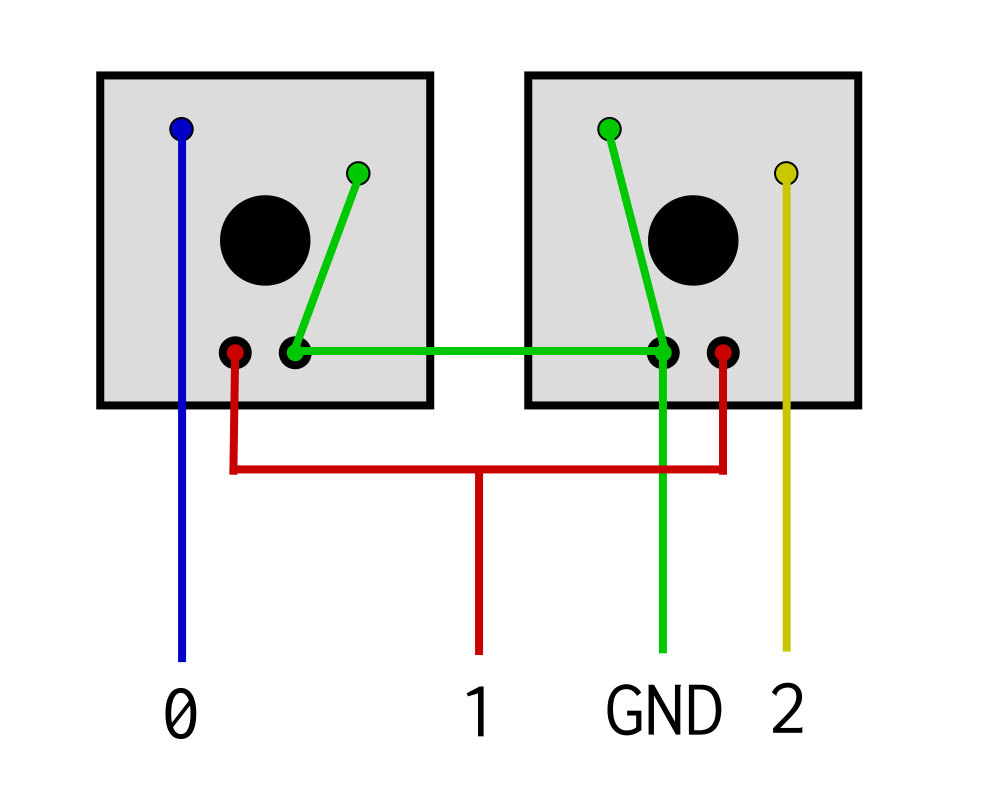
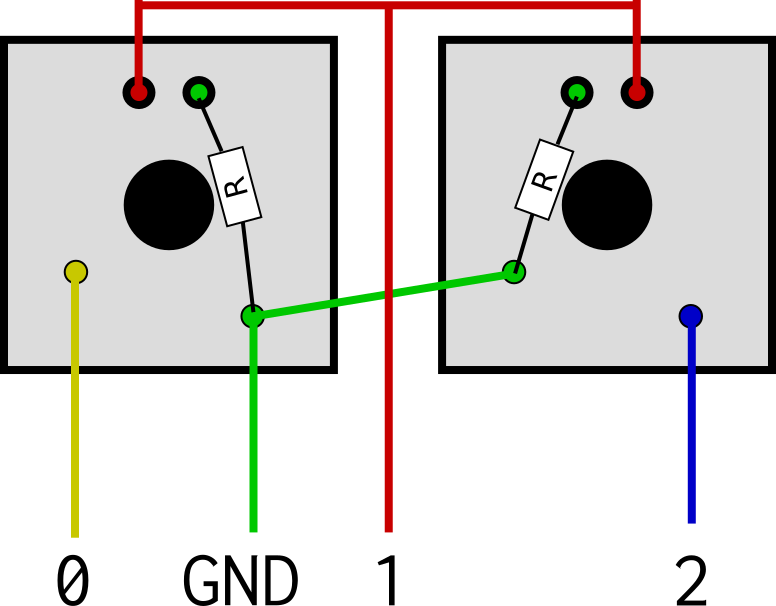
Finalize first version

diff --git a/readme.md b/readme.md
@@ -28,17 +28,20 @@ Most of this guide assumes you are using a Trinket, although I have no reason
 to believe that other microcontrollers won't work; I just don't know their
 nuances.
 
+I recommend you read or skim through the whole guide before choosing to
+build one of these keyboards.
+
 ### Parts required
 
 For the functional part of the keyboard, you'll need the following:
-* ATtiny85-based microcontroller, e.g.
+* An ATtiny85-based microcontroller, e.g.
   [Trinket](https://www.adafruit.com/product/1501) or
   [Digispark ebay
   clones](https://www.ebay.com/itm/Digispark-Kickstarter-ATTINY85-Arduino-General-Micro-USB-Development-Board/351877226756)
   This has only been tested on the Trinket.
 * Some wire and a soldering iron.
 * Two switches and keycaps.
-* Micro-USB cable.
+* A Micro-USB cable.
 * (Optional) 2 LEDs and appropriate resistors.
 
 To make a case, you'll need the following:
@@ -51,6 +54,13 @@ To make a case, you'll need the following:
   I'd recommend ones that can be secured with screws since then you can use those
   screws to secure your case, too (note: the screws in the linked rubber feet
   will likely be too short).
+
+Depending on what sort of parts you buy, this shouldn't cost more than $10 to
+$20 dollars (keycaps and switches are about $1 per, LEDs and resistors combine
+to be $3, the microcontroller is somewhere in the range of $1 to $7, and
+acrylic and wood make up the rest). Since this uses so few parts and you
+usually buy most of these in bulk, ideally you'd spend only the cost of a
+microcontroller and maybe one more part.
 
 ### Assembling the case
 
@@ -96,10 +106,10 @@ acrylic and I only cut out the bottom, switch, and open layers. It was a _tight
 fit_, but I got it to work. In general, I would leave a minimum of 1/4" of
 vertical height for your microcontroller to occupy, but if you've got better
 soldering skills and are confident that you can squeeze everything into a
-smaller space, go for it. Having a large cavity, at least for the Trinket,
-isn't really necessary given how small it is; _however_ I would still recommend
-a reasonably large one to fit wires or a perfboard (see my note on the
-perfboard in the next section).
+smaller space, go for it. Having a large horizontal cavity, at least for the
+Trinket, isn't really necessary given how small it is; _however_ I would still
+recommend a reasonably large one to fit wires or a perfboard (see my note on
+the perfboard in the next section).
 
 If you want, you can also cut out your top or bottom later large enough to
 fit your screw head. You'll have to generate another CAD to resize the holes
@@ -137,15 +147,16 @@ Here's where things go:
 Here are some tips:
 
 * I've included a diagram below of how I would recommend wiring up the circuit.
-  The holes beneath the switch are for the LEDs, which are optional.
+  The holes above the switch are for the LEDs, which are optional. I don't
+  think I need to say this, but just in case it isn't clear, _don't make a
+  connection between pin 1 and GND_. If the wires cross, make sure there's
+  something keeping them from actually touching (like insulation). 
 * The Trinket only has 1 ground port, but you'll need to wire 4 grounds if you
-  want LEDs (2 otherwise). Flip one LED so that both cathodes are adjacent
-  and connect them with a wire. Then bend the legs so that they connect to
-  the switch. Now all you need to do is attach a wire to one cathode and
-  all of the grounds are connected. You'll still need to be inventive about
-  how you connect the anodes (I'd advise putting a wire between them and
-  then connecting a wire from one anode to pin 1, which is not what is depicted
-  in the diagram).
+  want LEDs (2 otherwise). Flip one LED so that both cathodes are adjacent.
+  Then connect each cathode with a resistor to one end of the switch. Join
+  those GND pins of the switches together with a wire. Now all you need to do is
+  attach a wire to one pin of a switch and all of the grounds are connected.
+  You'll still need to be inventive about how you connect the anodes.
 * If you find that difficult, you can wire each part individually and put it all
   on a perfboard, then connect the perfboard to the Trinket. This may prove
   more cumbersome than wiring directly, although it will probably be easier to
@@ -156,6 +167,7 @@ Here are some tips:
   shoddy wiring and I'll have to redo everything from scratch.
 
 Click for a larger image.
+
 <a href="images/kb-wiring-diagram.png"><img src="images/kb-wiring-diagram.png"
 width="500" ></a>
 
@@ -176,30 +188,80 @@ Here's what you'll need:
   can't find it.
 
 Once you have everything set up, all you need to do is configure the file.
-Change `PIN_Z` and `PIN_X` to reflect what pin you put which key on (otherwise
+Open `keyboard.ino` with you preferred text editor (e.g. the Arduino IDE) and
+change `PIN_Z` and `PIN_X` to reflect what pin you put which key on (otherwise
 they'll be inverted, not that it matters much). Configure `CONFIG_DELAY` to be
 however long you want; I recommend at least 4 seconds (4000 ms). Then you
-should be set.
+should be set. If for some reason you want the board running at 16 MHz,
+uncomment the line in `setup()`. Though all timing that I use _should_ be
+absolute (i.e. in milliseconds, not clock cycles), I could have made a mistake
+and changing to 16 MHz may skew with the timing.
 
 ### Flashing
 
+Flashing the Trinket is not hard, but it isn't especially intuitive if you've
+used Arduino before. You need to select the board in Tools > Board, which is
+"Adafruit Trinket (ATtiny85 @ 8 MHz)" (or 16 MHz if you're running it at that
+speed). Then select the programmer in Tools > Programmer as "USBtinyISP". You
+_don't_ need to select a port since the Trinket can't communicate over
+serial.
+
+To flash it, either plug it in and flash immediately or press the reset button
+then flash. When you see the light flashing is when it's good to flash (good
+mnemonic, eh?). You can flash by pressing the "Upload" button in the Arduino
+IDE (the one that looks like a right arrow).
+
+The Trinket enters this "upload mode" each time it's plugged in, which makes it
+very easy to reflash it should there be changes to the firmware.  However, it
+does come with an inconvenience: you have to wait a few seconds after you plug
+your keyboard in until you can use it. 
+
 ### Use
+
+Use the keyboard as, well, a keyboard. There are a couple of extra features
+that you can configure without changing the firmware.
+
+When you enter a configuration mode, your computer may inform you that your
+keyboard has disconnected. If the keyboard does not continue to send updates
+every approximately 10 milliseconds, it will disconnect. However, the keyboard
+just reconnects when you exit the mode.
+
+To set the brightness of the LEDs, hold down both Z and X until the keyboard's
+lights blink thrice. This signifies the keyboard is in LED brightness
+configuration.  Press the X key to cycle through various levels of brightness,
+and then the Z key to save and return. This will save your light level
+peference to EEPROM, so even if the keyboard is restarted, it will retain that
+value. 
+
+To change the LED mode, hold down the Z key until the keyboard's lights blink
+twice. This signifies the keyboard is in LED mode configuration. Press the X
+key to toggle between Always On and Keypress (Always On is denoted by the
+lights on the keyboard being on in this mode, and Keypress is denoted by them
+being off). In Always On mode, the LEDs are always on. Unless you've set the
+brightness to 0, in which case they're always off. In Keypress mode, the LEDs
+only turn on when at least one key is held down. Press the Z key to save
+and return.
 
 ### Bugs
 
-Right now, I'm not entirely too sure why I seemingly cannot use
-pins 3 and 4 as output or input, as well as pin 1 as input. I
-tested my Trinket in a hurry, so it could easily have been an
-issue with my wiring, although I suspect it might be that those
-pins are in use for V-USB purposes. I don't quite know. This
-bug is the reason why lighting is not per-key.
+Right now, I'm not entirely sure why I seemingly cannot use pins 3 and 4 as
+output or input, as well as pin 1 as input. I tested my Trinket in a hurry, so
+it could easily have been an issue with my wiring, although I suspect it might
+be that those pins are in use for V-USB purposes. I don't quite know. This bug
+is the reason why lighting is not per-key.
 
 ### Future 
 
-I would like to make an (open source) PCB for this project since wiring was a
-PITA.
+TBD
+* Make it so that the keyboard doesn't disconnect when you enter
+  a configuration mode.
+* Make it so that the only way to enter configuration mode is by pressing and
+  holding both Z and X (unlikeliest to be done during actual play). 
 
-Though this is for the ATtiny85, if you're interested in a version which
-is for a microcontroller that supports real USB communication, feel
-free to fork this repo or ask me to support it (it should be about
-as simple as changing the library used). 
+Maybes
+* I would like to make an (open source) PCB for this project since wiring was a
+  PITA.
+* Though this is for the ATtiny85, if you're interested in a version which
+  is for a microcontroller that supports real USB communication, feel
+  free to fork this repo or ask me to support it (it should be about
+  as simple as changing the library used). 
